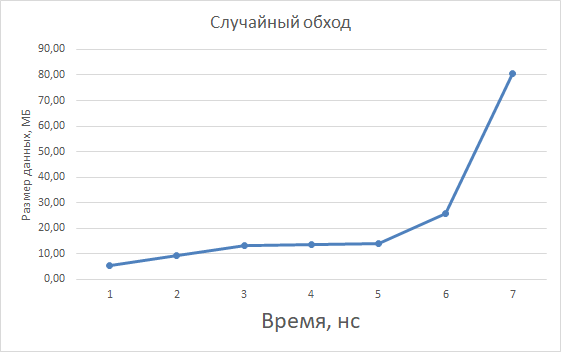
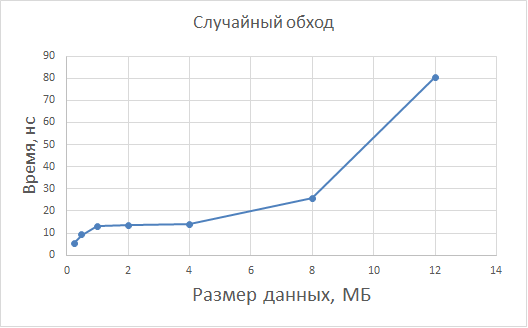
У графиков были неправильно подписаны оси

diff --git a/sources/source.cpp b/sources/source.cpp
@@ -2,6 +2,9 @@
 
 #include <header.hpp>
 
+// umnozhenie na 10^6 - millisec to nanosec
+// delenie na (3*10^4 * 10^3) - kolichestvo obrazchenii k odnomy elementu
+
 void direct_movement(size_t size_mbits) {
   size_t size = 128 * 1024 * size_mbits;
   size /= 4;
@@ -22,7 +25,8 @@ void direct_movement(size_t size_mbits) {
   size_t end = clock();
   delete[] buf;
   size_t res = end - begin;
-  std::cout << res / 30. << " ns\n";
+  std::cout << 1000000 * res / (30000. * 1000.)
+            << " ns\n";  // equals to "res / 30."
 }
 
 void reverse_movement(size_t size_mbits) {
@@ -45,7 +49,8 @@ void reverse_movement(size_t size_mbits) {
   size_t end = clock();
   delete[] buf;
   size_t res = end - begin;
-  std::cout << res / 30. << " ns\n";
+  std::cout << 1000000 * res / (30000. * 1000.)
+            << " ns\n";  // equals to "res / 30."
 }
 
 int* random_filling(size_t size) {
@@ -86,7 +91,8 @@ void random_movement(size_t size_mbits) {
   size_t end = clock();
   delete[] buf;
   size_t res = end - begin;
-  std::cout << res / 30. << " ns\n";
+  std::cout << 1000000 * res / (30000. * 1000.)
+            << " ns\n";  // equals to "res / 30."
 }
 
 void report(mode _mode) {
@@ -99,7 +105,7 @@ void report(mode _mode) {
       std::cout << "\n  - experiment:\n      number: " << number;
       std::cout << "\n      input_data:\n        buffer_size: \"" << i / 8.
                 << "mb\"";
-      std::cout << "\n      results:\n        duration: \"";
+      std::cout << "\n      results:\n        single element's access: \"";
       direct_movement(i);
       number++;
     }
@@ -112,7 +118,7 @@ void report(mode _mode) {
       std::cout << "\n  - experiment:\n      number: " << number;
       std::cout << "\n      input_data:\n        buffer_size: \"" << i / 8.
                 << "mb\"";
-      std::cout << "\n      results:\n        duration: \"";
+      std::cout << "\n      results:\n        single element's access: \"";
       reverse_movement(i);
       number++;
     }
@@ -128,7 +134,7 @@ void report(mode _mode) {
       std::cout << "\n  - experiment:\n      number: " << number;
       std::cout << "\n      input_data:\n        buffer_size: \"" << i / 8.
                 << "mb\"";
-      std::cout << "\n      results:\n        duration: \"";
+      std::cout << "\n      results:\n        single element's access: \"";
       random_movement(i);
       number++;
     }
